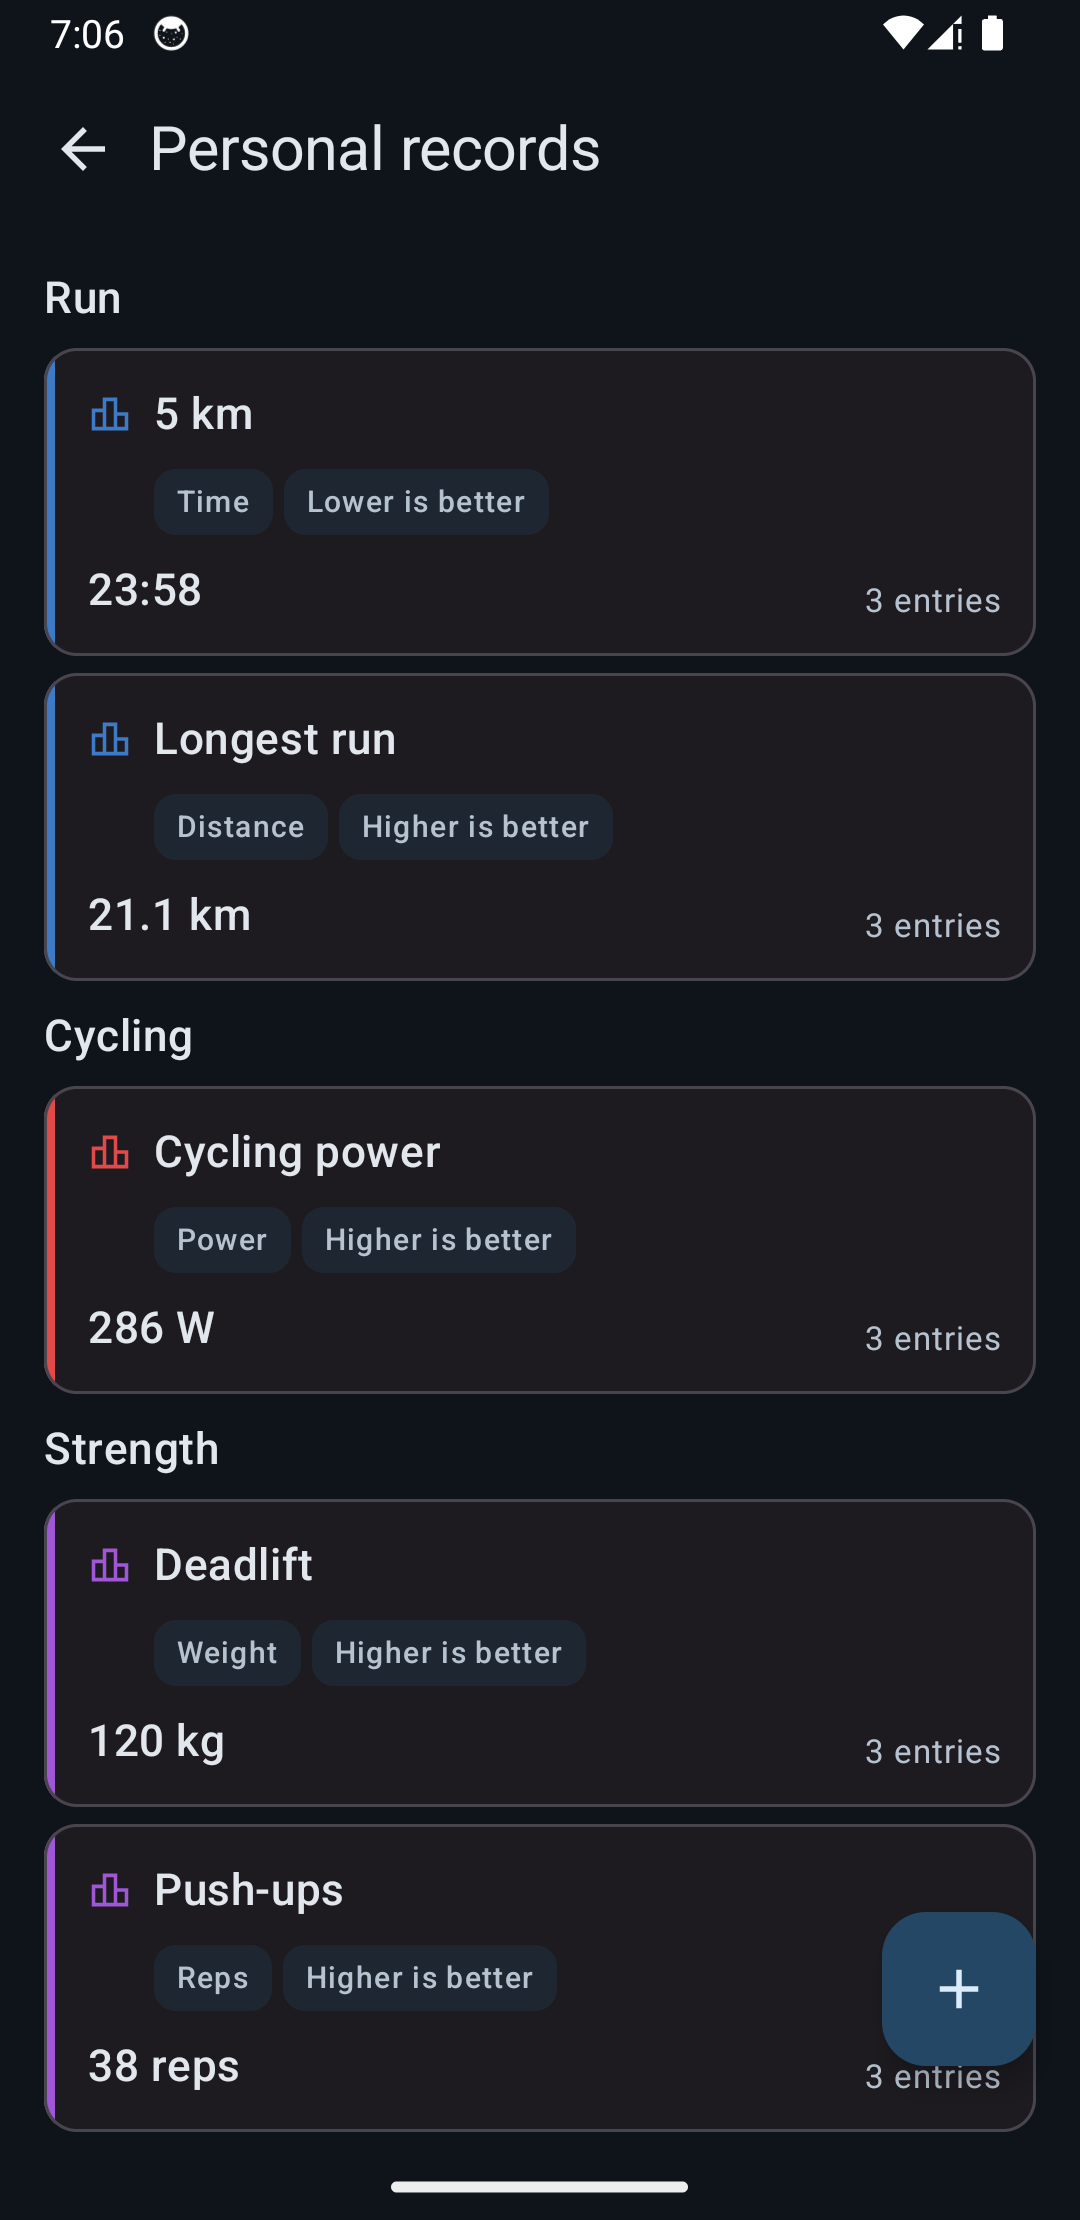
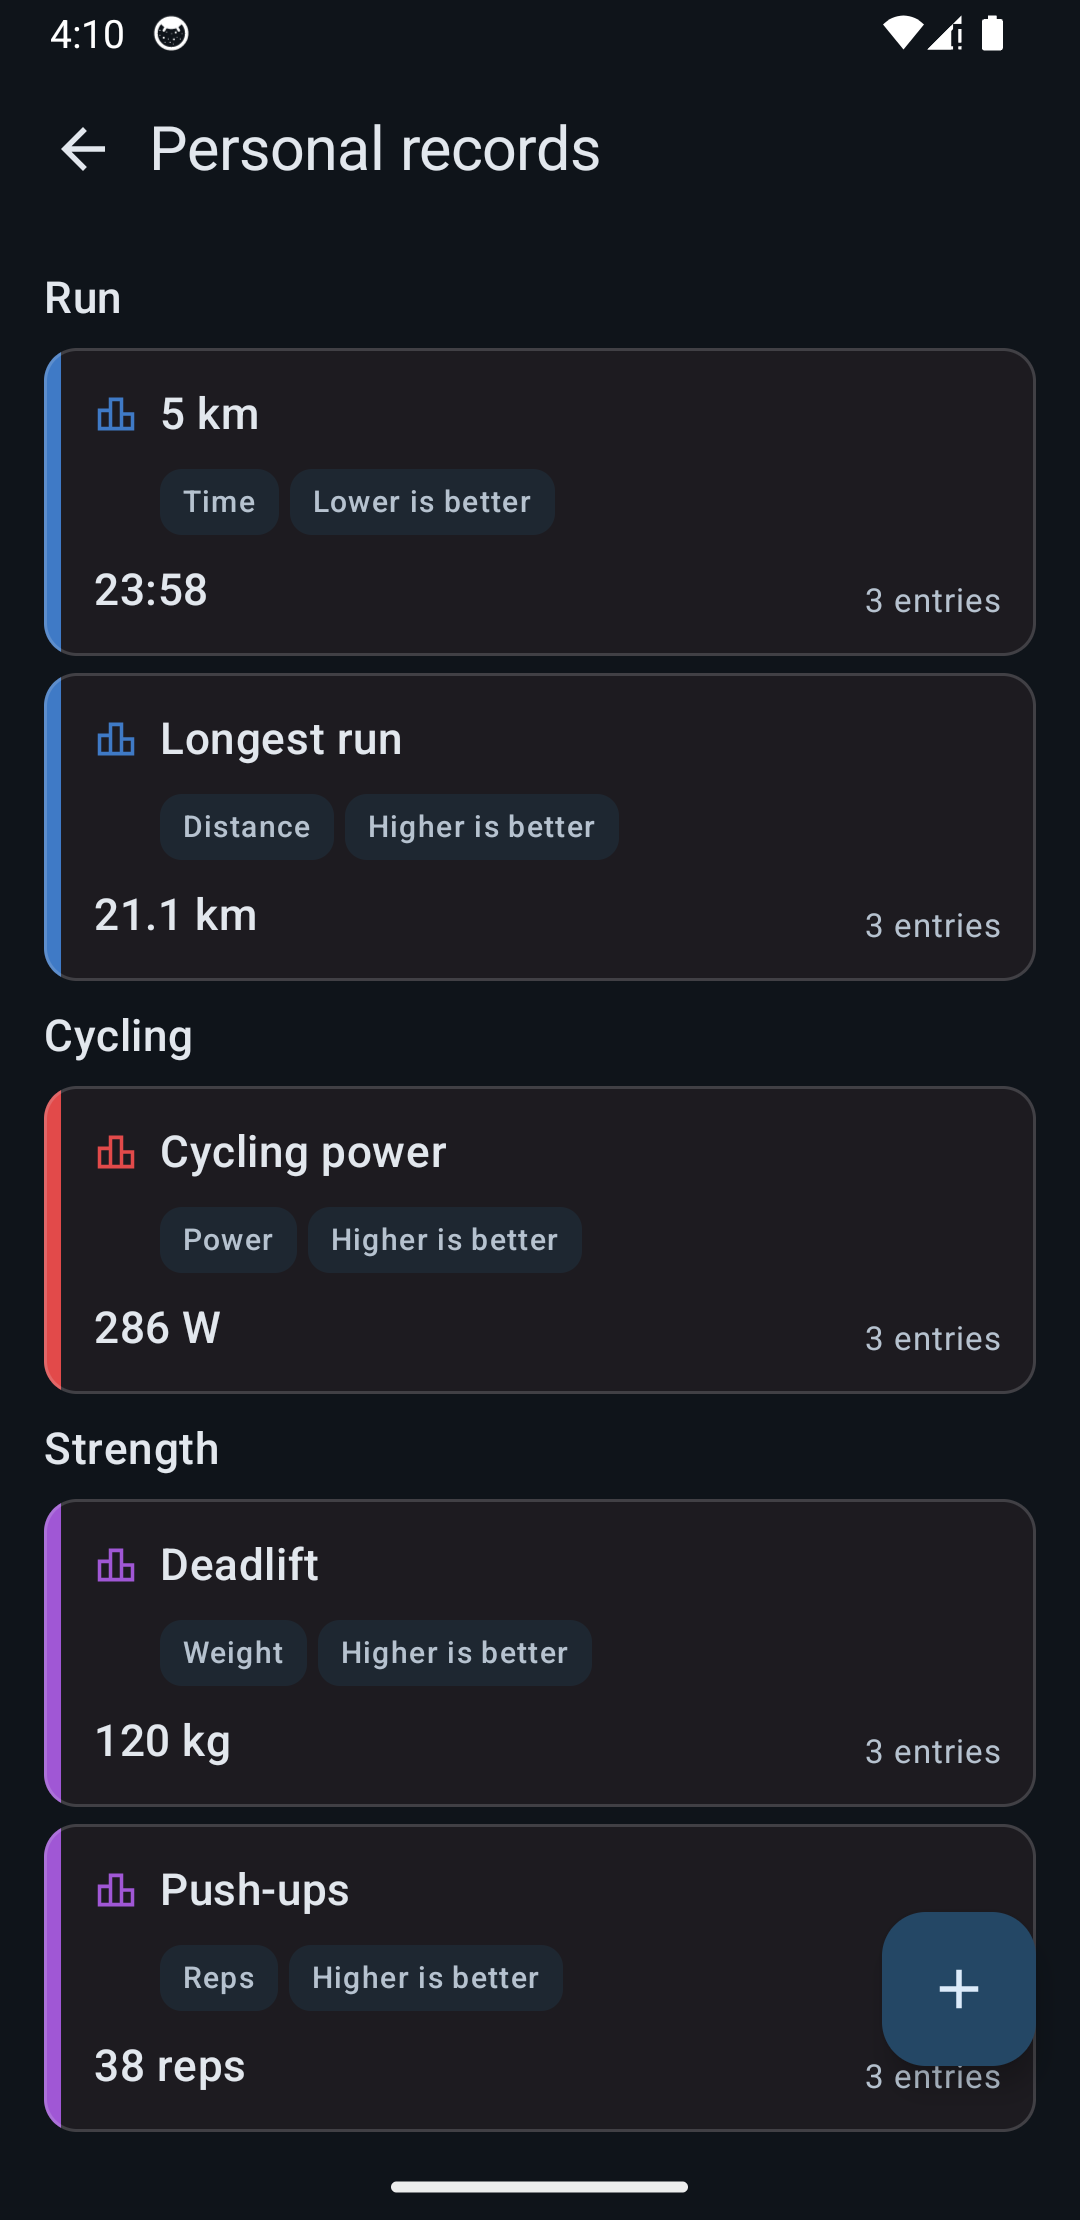
Align personal records with rail frame style

diff --git a/app/src/main/java/com/rafaelfelipeac/hermes/features/personalrecords/presentation/PersonalRecordsShelf.kt b/app/src/main/java/com/rafaelfelipeac/hermes/features/personalrecords/presentation/PersonalRecordsShelf.kt
@@ -48,6 +48,7 @@ import com.rafaelfelipeac.hermes.core.ui.components.EmptyStateCard
 import com.rafaelfelipeac.hermes.core.ui.components.TitleChip
 import com.rafaelfelipeac.hermes.core.ui.currentLocale
 import com.rafaelfelipeac.hermes.core.ui.theme.Dimens.BorderHairline
+import com.rafaelfelipeac.hermes.core.ui.theme.Dimens.PersonalRecordCategoryAccentWidth
 import com.rafaelfelipeac.hermes.core.ui.theme.Dimens.SmallIconSize
 import com.rafaelfelipeac.hermes.core.ui.theme.Dimens.SpacingLg
 import com.rafaelfelipeac.hermes.core.ui.theme.Dimens.SpacingMd
@@ -58,6 +59,8 @@ import com.rafaelfelipeac.hermes.features.categories.domain.model.Category
 import com.rafaelfelipeac.hermes.features.personalrecords.domain.PersonalRecordBestSelector
 import com.rafaelfelipeac.hermes.features.personalrecords.domain.model.PersonalRecordFamily
 import java.util.Locale
+
+private const val PERSONAL_RECORD_FRAME_ALPHA = 0.18f
 
 @Composable
 internal fun PersonalRecordsShelf(
@@ -98,11 +101,12 @@ internal fun PersonalRecordsShelf(
                                 )
                             val category = group.category
                             val accent = category?.colorId?.let(::categoryAccentColor) ?: colorScheme.primary
+                            val frameColor = colorScheme.onSurface.copy(alpha = PERSONAL_RECORD_FRAME_ALPHA)
 
                             Card(
                                 onClick = { onFamilySelected(family.id) },
                                 colors = CardDefaults.cardColors(containerColor = colorScheme.surfaceContainerLow),
-                                border = BorderStroke(BorderHairline, colorScheme.outlineVariant),
+                                border = BorderStroke(BorderHairline, frameColor),
                                 shape = shapes.medium,
                                 modifier =
                                     Modifier
@@ -114,7 +118,7 @@ internal fun PersonalRecordsShelf(
                                         modifier =
                                             Modifier
                                                 .fillMaxHeight()
-                                                .width(SpacingXs)
+                                                .width(PersonalRecordCategoryAccentWidth)
                                                 .background(accent),
                                     )
 

diff --git a/app/src/main/java/com/rafaelfelipeac/hermes/features/personalrecords/presentation/PersonalRecordDetail.kt b/app/src/main/java/com/rafaelfelipeac/hermes/features/personalrecords/presentation/PersonalRecordDetail.kt
@@ -47,6 +47,7 @@ import com.rafaelfelipeac.hermes.core.ui.components.TitleChip
 import com.rafaelfelipeac.hermes.core.ui.components.formatWorkoutDate
 import com.rafaelfelipeac.hermes.core.ui.currentLocale
 import com.rafaelfelipeac.hermes.core.ui.theme.Dimens.BorderHairline
+import com.rafaelfelipeac.hermes.core.ui.theme.Dimens.PersonalRecordCategoryAccentWidth
 import com.rafaelfelipeac.hermes.core.ui.theme.Dimens.SpacingLg
 import com.rafaelfelipeac.hermes.core.ui.theme.Dimens.SpacingMd
 import com.rafaelfelipeac.hermes.core.ui.theme.Dimens.SpacingSm
@@ -58,6 +59,8 @@ import com.rafaelfelipeac.hermes.features.personalrecords.domain.model.PersonalR
 import com.rafaelfelipeac.hermes.features.personalrecords.domain.model.PersonalRecordEntry
 import com.rafaelfelipeac.hermes.features.personalrecords.domain.model.PersonalRecordFamily
 import java.util.Locale
+
+private const val PERSONAL_RECORD_DETAIL_FRAME_ALPHA = 0.18f
 
 @Composable
 internal fun PersonalRecordDetail(
@@ -129,7 +132,11 @@ internal fun PersonalRecordDetail(
         } else {
             Card(
                 colors = CardDefaults.cardColors(containerColor = colorScheme.surfaceContainerLow),
-                border = BorderStroke(BorderHairline, colorScheme.outlineVariant),
+                border =
+                    BorderStroke(
+                        BorderHairline,
+                        colorScheme.onSurface.copy(alpha = PERSONAL_RECORD_DETAIL_FRAME_ALPHA),
+                    ),
                 shape = shapes.medium,
                 modifier = Modifier.fillMaxWidth(),
             ) {
@@ -203,7 +210,11 @@ private fun PersonalRecordHistoryRow(
     Card(
         onClick = onClick,
         colors = CardDefaults.cardColors(containerColor = colorScheme.surfaceContainerLow),
-        border = BorderStroke(BorderHairline, colorScheme.outlineVariant),
+        border =
+            BorderStroke(
+                BorderHairline,
+                colorScheme.onSurface.copy(alpha = PERSONAL_RECORD_DETAIL_FRAME_ALPHA),
+            ),
         shape = shapes.medium,
         modifier =
             Modifier
@@ -292,6 +303,6 @@ private fun PersonalRecordAccentRail(category: Category?) {
         modifier =
             Modifier
                 .fillMaxHeight()
-                .width(SpacingXs),
+                .width(PersonalRecordCategoryAccentWidth),
     ) {}
 }

diff --git a/app/src/main/java/com/rafaelfelipeac/hermes/core/ui/theme/Dimens.kt b/app/src/main/java/com/rafaelfelipeac/hermes/core/ui/theme/Dimens.kt
@@ -34,6 +34,7 @@ object Dimens {
     val PersonalRecordTimeWheelItemHeight = 32.dp
     val PersonalRecordTimeWheelColumnMinWidth = 72.dp
     val PersonalRecordTimeWheelContentPadding = 40.dp
+    val PersonalRecordCategoryAccentWidth = 6.dp
     val HelpIconSize = 36.dp
     val HelpIconGlyphSize = 22.dp
     val SettingsDeveloperSectionSpacing = 10.dp

diff --git a/LEARNING.md b/LEARNING.md
@@ -691,3 +691,4 @@ Recent learnings:
 - Trophy rails need a neutral frame to keep card boundaries legible. The category rail can own the left edge while a thinner low-alpha surface frame defines the remaining edges without making the category color feel like decoration.
 - Trophy card borders make text proximity more noticeable than borderless cards. Title blocks need their own horizontal inset so the label reads as card content instead of touching the structural frame.
 - Event cards should share the Trophy rail/frame grammar when category color is structural. A category-only left rail plus neutral hairline frame keeps Events connected to Trophies without letting every card edge compete for attention.
+- Personal Record cards should use the same rail/frame vocabulary as Trophies and Events. Keeping the category rail at the shared width and the remaining frame neutral makes category-owned surfaces feel connected across feature shelves.
